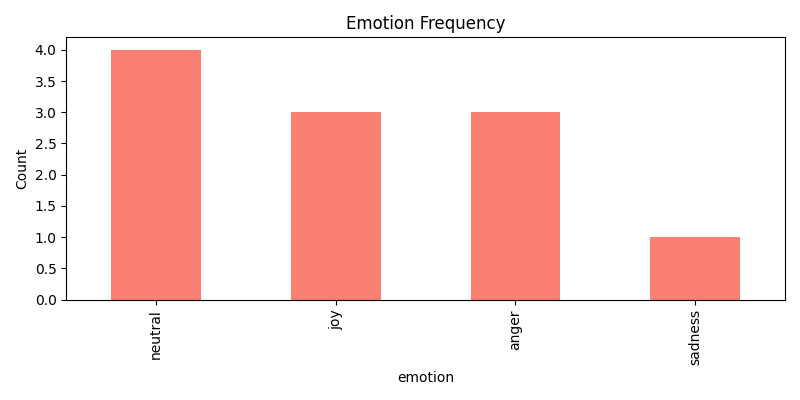
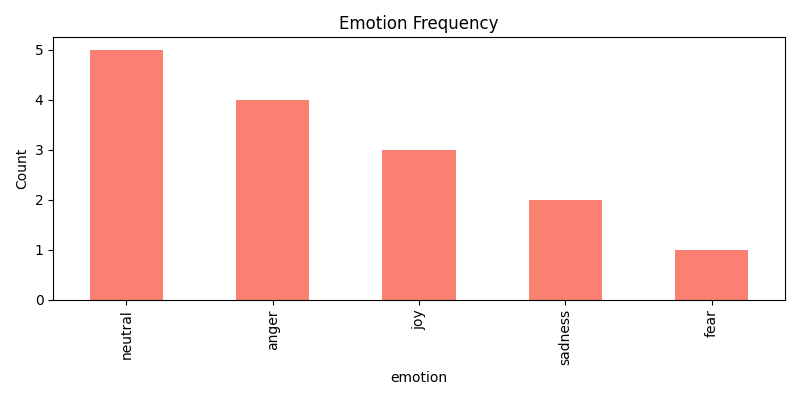
Zidio Project

diff --git a/templates/models.py b/templates/models.py
@@ -1,15 +1,27 @@
 from flask_sqlalchemy import SQLAlchemy
 from werkzeug.security import generate_password_hash, check_password_hash
+from datetime import datetime
 
 db = SQLAlchemy()
 
 class User(db.Model):
     id = db.Column(db.Integer, primary_key=True)
     username = db.Column(db.String(150), unique=True, nullable=False)
-    password_hash = db.Column(db.String(150), nullable=False)
+    email = db.Column(db.String(100), unique=True, nullable=False)
+    password_hash = db.Column(db.String(200), nullable=False)
+    profile_pic = db.Column(db.String(200), default='default.png')
+
+    emotion_records = db.relationship('EmotionRecord', backref='user', lazy=True)
 
     def set_password(self, password):
         self.password_hash = generate_password_hash(password)
 
     def check_password(self, password):
         return check_password_hash(self.password_hash, password)
+
+class EmotionRecord(db.Model):
+    id = db.Column(db.Integer, primary_key=True)
+    user_id = db.Column(db.Integer, db.ForeignKey('user.id'), nullable=False)
+    emotion_type = db.Column(db.String(50))  # 'text', 'voice', or 'video'
+    emotion = db.Column(db.String(50))       # Detected emotion
+    timestamp = db.Column(db.DateTime, default=datetime.utcnow)

diff --git a/app.py b/app.py
@@ -16,6 +16,10 @@ import json
 from utils.graph_plotter import create_emotion_graph
 from voice_emotion import detect_emotion_from_voice
 from flask_login import current_user
+from collections import Counter
+import seaborn as sns
+import io
+from flask import send_file
 
 # Flask App Setup
 app = Flask(__name__)
